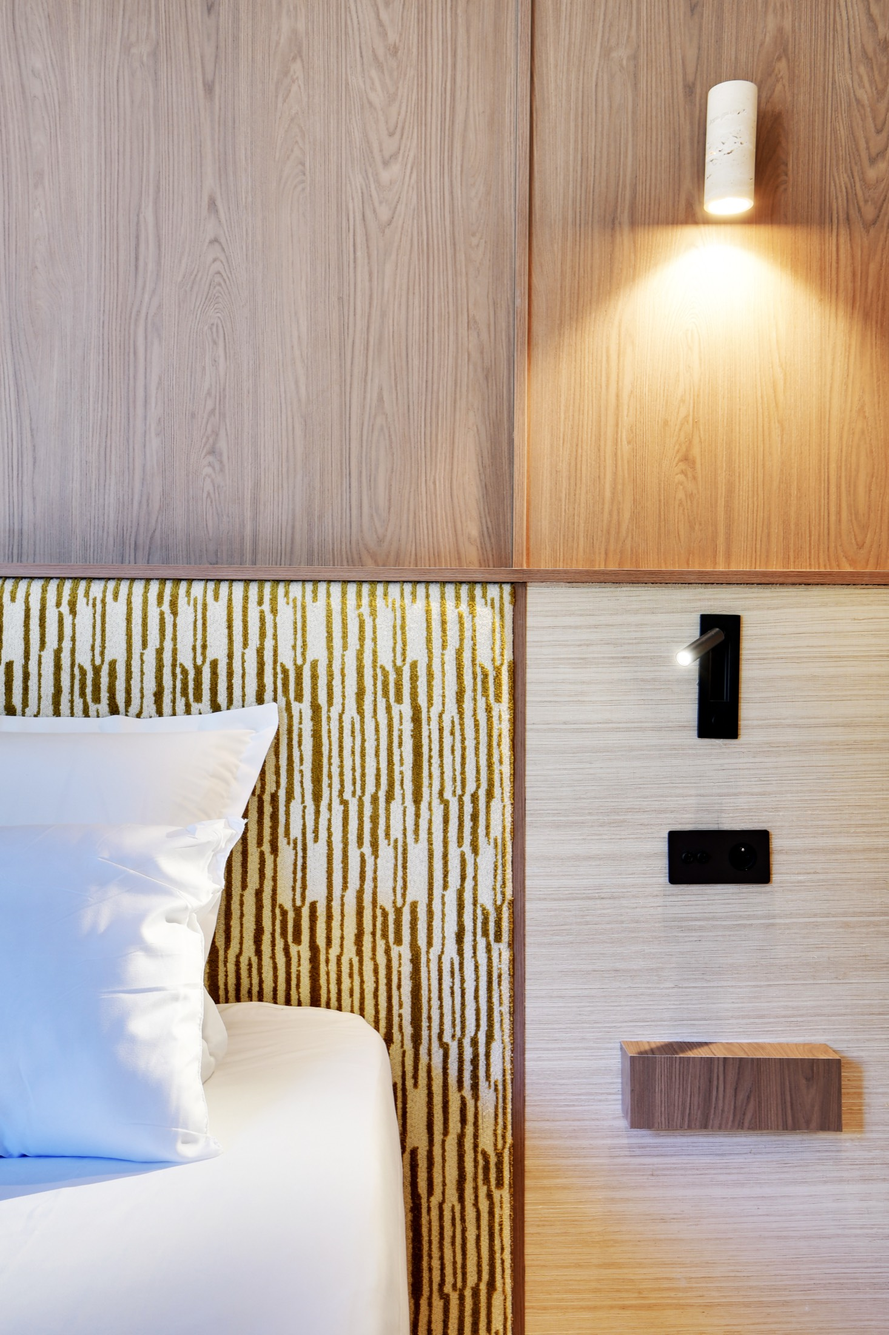
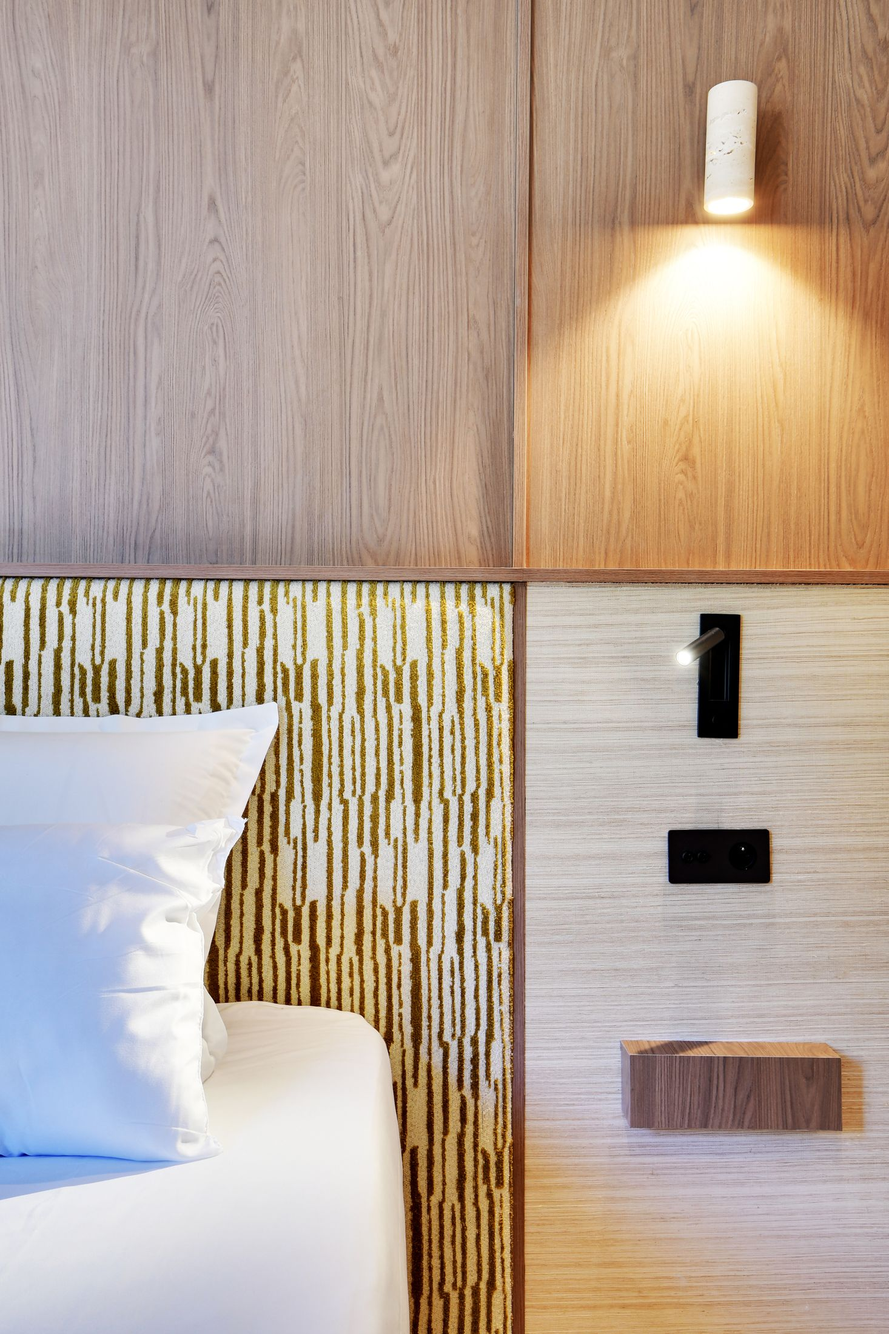
Recompression des photos depuis les originaux : 9,7 Mo -> 6,1 Mo
Réencodage en une seule passe à partir des fichiers du photographe, plutôt
qu'une recompression des JPEG du site qui aurait cumulé deux pertes.

En qualité 80, JPEG progressif et tables optimisées, contre 62 à 74 auparavant :
les fichiers sont à la fois plus légers et de meilleure qualité.

murmures-1 était agrandie au-delà de sa résolution native (2400px pour une
source en 2000px), ce qui ajoutait du poids sans ajouter de détail. Toutes les
images sont désormais plafonnées à leur taille réelle.

diff --git a/src/components/Navbar.tsx b/src/components/Navbar.tsx
@@ -49,17 +49,21 @@ const marque = global.marque.replace(/ & /g, "\u00A0&\u00A0");
  * Le logo cliquable : l'arche puis le nom. Identique dans le bandeau et dans
  * l'en-tête du tiroir, d'où le composant plutôt qu'un copier-coller.
  *
- * Sous `md`, l'arche n'a pas de hauteur fixe : `self-stretch` la cale sur la
- * hauteur du bloc texte, donc sur deux lignes quand le nom se coupe et sur
- * une seule quand il tient, sans point de rupture arbitraire à régler.
+ * Tant que le nom se coupe en deux, l'arche fait `2lh`, soit exactement deux
+ * interlignes : elle borde le bloc de texte au lieu de flotter à côté.
  *
- * L'`aspect-[197/245]` n'est pas décoratif : un SVG inline dont la hauteur
- * vient de `align-self: stretch` calcule sa largeur `auto` à 100 % du parent
- * au lieu de suivre son `viewBox`, et le logo remplit alors tout l'écran.
- * Le ratio explicite lui redonne la largeur attendue.
+ * Le seuil est à 460 px et non à `md` : le nom cesse de se couper vers
+ * 465 px avec l'arche à deux lignes, et vers 445 px avec l'arche réduite —
+ * n'importe quelle valeur entre les deux bascule proprement, sans largeur où
+ * les deux règles se contrediraient. C'est bien avant la tablette. Caler la bascule sur `md` laissait une
+ * plage de 300 px où l'arche gardait sa taille deux lignes en face d'une
+ * seule ligne de texte. Au-delà, on reprend la taille d'origine (`h-5`).
  *
- * À partir de `md` le nom tient toujours sur une ligne et on remet la taille
- * d'origine (`h-5`, centrée) : le desktop ne bouge pas d'un pixel.
+ * Ne pas tenter de remplacer `2lh` par `self-stretch` : un SVG inline dont
+ * la hauteur vient du `stretch` calcule sa largeur `auto` à 100 % du parent
+ * au lieu de suivre son `viewBox`, et le logo remplit tout l'écran. Ajouter
+ * un `aspect-ratio` ne sauve rien, c'est alors la largeur qui pilote la
+ * hauteur et l'arche regonfle pareil.
  */
 function BrandLink({ onClick }: { onClick?: () => void }) {
   return (
@@ -68,7 +72,7 @@ function BrandLink({ onClick }: { onClick?: () => void }) {
       onClick={onClick}
       className="flex min-w-0 items-center gap-3 font-serif text-base font-normal uppercase tracking-[0.2em] text-white no-underline hover:text-white/70"
     >
-      <SymbolIcon className="h-[2lh] w-auto shrink-0 text-white md:-mt-px md:h-5" />
+      <SymbolIcon className="h-[2lh] w-auto shrink-0 text-white min-[460px]:-mt-px min-[460px]:h-5" />
       <span className="min-w-0">{marque}</span>
     </Link>
   );
@@ -76,11 +80,34 @@ function BrandLink({ onClick }: { onClick?: () => void }) {
 
 export function Navbar() {
   const [open, setOpen] = useState(false);
+  const [scrolled, setScrolled] = useState(false);
   const pathname = usePathname();
 
   useEffect(() => {
     setOpen(false);
   }, [pathname]);
+
+  // Dès qu'on quitte la couverture, la barre se pose sur un fond chocolat :
+  // sans lui, le logotype et « MENU », tous deux blancs, se perdaient sur le
+  // lin de toutes les sections suivantes — flagrant sur téléphone, où la barre
+  // tombe en permanence sur du texte. Le seuil est bas (24 px) pour que la
+  // bascule se fasse pendant le premier geste, jamais au milieu de l'écran.
+  useEffect(() => {
+    let frame = 0;
+    const lire = () => {
+      frame = 0;
+      setScrolled(window.scrollY > 24);
+    };
+    const onScroll = () => {
+      if (frame === 0) frame = requestAnimationFrame(lire);
+    };
+    lire();
+    window.addEventListener("scroll", onScroll, { passive: true });
+    return () => {
+      window.removeEventListener("scroll", onScroll);
+      if (frame !== 0) cancelAnimationFrame(frame);
+    };
+  }, []);
 
   useEffect(() => {
     if (open) {
@@ -95,18 +122,32 @@ export function Navbar() {
 
   return (
     <>
-      <div className="pointer-events-none fixed left-0 top-0 z-10 w-full">
-        {/* Pas de fond propre ici : un bandeau teinté ne couvrirait que le haut
-            de la photo et la couperait en deux tons. Le voile est porté par
-            l'image elle-même, sur toute sa hauteur ; la barre se contente d'une
-            ombre portée sur son texte pour rester lisible. */}
+      {/* `reveal` est porté par cette enveloppe, dont la classe est fixe.
+          `ScrollReveal` pose `is-revealed` directement sur le noeud ; si la
+          classe venait d'un `template` piloté par un état React, le premier
+          rendu déclenché par le défilement la réécrirait, et la barre
+          disparaîtrait pour de bon (`.reveal` est à `opacity: 0`). */}
+      <div
+        className="reveal pointer-events-none fixed left-0 top-0 z-30 w-full"
+        style={{ "--reveal-shift": "-14px", "--reveal-duration": "1100ms" } as CSSProperties}
+      >
+        {/* En haut de page, aucun fond propre : un bandeau teinté ne couvrirait
+            que le haut de la photo et la couperait en deux tons. Le voile est
+            porté par l'image elle-même, et la barre se contente d'une ombre
+            portée sur son texte. Passé la couverture, l'ombre ne suffit plus et
+            c'est le fond chocolat qui prend le relais. */}
         <div
-          className="reveal pointer-events-auto relative flex w-full items-center justify-between px-6 py-4 [text-shadow:0_1px_12px_rgb(50_32_22/0.55)] md:px-24"
-          style={{ "--reveal-shift": "-14px", "--reveal-duration": "1100ms" } as CSSProperties}
+          className={`pointer-events-auto relative flex w-full items-center justify-between px-6 transition-[background-color,padding,box-shadow] duration-500 ease-[var(--ease-murmure)] md:px-24 ${
+            scrolled
+              ? "bg-dark-chocolate/95 py-3 shadow-[0_1px_0_0_rgb(255_255_255/0.10)] backdrop-blur-md md:py-4"
+              : "py-4 [text-shadow:0_1px_12px_rgb(50_32_22/0.55)]"
+          }`}
         >
           <BrandLink />
           <button
             onClick={() => setOpen(true)}
+            aria-label="Ouvrir le menu"
+            aria-expanded={open}
             className="flex cursor-pointer items-center gap-2 rounded-full border-none bg-white/10 px-4 py-2 text-white backdrop-blur-[5px] transition-colors duration-500 hover:bg-white/20"
           >
             <span className="font-serif text-base font-medium text-white">MENU</span>

diff --git a/src/app/globals.css b/src/app/globals.css
@@ -23,8 +23,15 @@
   --ease-murmure: cubic-bezier(0.22, 1, 0.36, 1);
 }
 
+html {
+  /* Safari iPhone regonfle le texte au passage en paysage sans cette ligne. */
+  -webkit-text-size-adjust: 100%;
+}
+
 body {
   background: var(--color-background);
+  /* Le rectangle bleu du tap iOS n'a rien à faire sur du lin. */
+  -webkit-tap-highlight-color: transparent;
   color: var(--color-foreground);
   font-family: var(--font-sans), sans-serif;
   /* Rend le gris des textes fins plus proche du dessin typographique. */
@@ -412,9 +419,14 @@ p {
   padding-bottom: 2px;
 }
 
-.link-rule:hover,
 .link-rule:focus-visible {
   background-size: 100% 1px;
+}
+
+@media (hover: hover) {
+  .link-rule:hover {
+    background-size: 100% 1px;
+  }
 }
 
 /* Image qui s'approche lentement au survol de sa carte. */
@@ -422,9 +434,11 @@ p {
   transition: transform 1200ms var(--ease-murmure);
 }
 
-.group:hover .zoom-slow,
-.zoom-host:hover .zoom-slow {
-  transform: scale(1.045);
+@media (hover: hover) {
+  .group:hover .zoom-slow,
+  .zoom-host:hover .zoom-slow {
+    transform: scale(1.045);
+  }
 }
 
 /* Bouton d'appel : la flèche avance d'un cheveu, le fond s'éclaircit. */
@@ -437,9 +451,14 @@ p {
   transition: transform 500ms var(--ease-murmure);
 }
 
-.cta:hover svg,
 .cta:focus-visible svg {
   transform: translateX(4px);
+}
+
+@media (hover: hover) {
+  .cta:hover svg {
+    transform: translateX(4px);
+  }
 }
 
 /* Carte qui se soulève à peine au survol. */
@@ -448,8 +467,10 @@ p {
     box-shadow 700ms var(--ease-murmure);
 }
 
-.card-lift:hover {
-  transform: translateY(-4px);
+@media (hover: hover) {
+  .card-lift:hover {
+    transform: translateY(-4px);
+  }
 }
 
 /* Entrées du menu : elles se posent l'une après l'autre à l'ouverture. */
@@ -492,8 +513,10 @@ p {
   transition: filter 700ms var(--ease-murmure);
 }
 
-.map-tint:hover {
-  filter: sepia(0.1) saturate(0.95) contrast(1);
+@media (hover: hover) {
+  .map-tint:hover {
+    filter: sepia(0.1) saturate(0.95) contrast(1);
+  }
 }
 
 /* ------------------------------------------------------------------

diff --git a/src/components/hotel/ExploreGrid.tsx b/src/components/hotel/ExploreGrid.tsx
@@ -26,7 +26,7 @@ function ExploreCard({
         href={href}
         className="cta group flex w-full flex-col items-start gap-6 overflow-hidden no-underline"
       >
-        <div className="relative z-[1] h-96 w-full overflow-hidden rounded">
+        <div className="relative z-[1] aspect-[4/3] w-full overflow-hidden rounded md:aspect-auto md:h-96">
           <Image
             src={image}
             alt={title}
@@ -93,7 +93,7 @@ export function ExploreGrid() {
     <section className="flex w-full flex-col items-center gap-14 px-5 py-16 md:px-10 md:py-24 md:max-xl:px-8">
       <div className="flex w-full max-w-screen-xl flex-col items-start gap-14">
         <div className="stagger flex w-full items-start gap-20 max-md:flex-col max-md:gap-6 md:max-xl:gap-6">
-          <h2 className="max-w-xl flex-1 whitespace-pre-line text-2xl font-normal uppercase leading-10 text-chocolate max-md:w-full md:text-3xl">
+          <h2 className="max-w-xl flex-1 whitespace-pre-line text-2xl font-normal uppercase leading-8 md:leading-10 text-chocolate max-md:w-full md:text-3xl">
             {explorer.titre}
           </h2>
           <div className="flex flex-1 flex-col gap-4 max-md:w-full">

diff --git a/src/components/hotel/HospitalitySection.tsx b/src/components/hotel/HospitalitySection.tsx
@@ -10,7 +10,7 @@ export function HospitalitySection() {
       <div className="relative flex w-full max-w-screen-xl flex-col items-center gap-16 md:flex-row md:items-start md:gap-20">
         {/* Text */}
         <div className="stagger flex flex-1 flex-col gap-6 md:sticky md:top-32">
-          <h2 className="text-2xl font-normal uppercase leading-10 text-chocolate md:text-3xl">
+          <h2 className="text-2xl font-normal uppercase leading-8 md:leading-10 text-chocolate md:text-3xl">
             {hospitalite.titre}
           </h2>
           <p className="dropcap max-w-md text-base font-light leading-7 text-dark-chocolate md:text-sm xl:text-base">
@@ -23,7 +23,7 @@ export function HospitalitySection() {
 
         {/* Image */}
         <div
-          className="reveal-image zoom-host relative aspect-[3/4] w-full max-w-md overflow-hidden rounded md:flex-1"
+          className="reveal-image zoom-host relative aspect-[4/5] w-full max-w-md overflow-hidden rounded md:aspect-[3/4] md:flex-1"
           style={{ "--reveal-delay": "200ms" } as CSSProperties}
         >
           <Image

diff --git a/src/components/hotel/SpiritCarousel.tsx b/src/components/hotel/SpiritCarousel.tsx
@@ -35,7 +35,7 @@ export function SpiritCarousel() {
     <section className="flex w-full flex-col items-center gap-10 px-5 pt-20 pb-24 md:px-10">
       <div className="flex w-full max-w-screen-xl flex-col items-start gap-10">
         <div className="stagger flex w-full items-end justify-between">
-          <h2 className="text-2xl font-normal uppercase leading-10 text-chocolate md:text-3xl">
+          <h2 className="text-2xl font-normal uppercase leading-8 md:leading-10 text-chocolate md:text-3xl">
             {esprit.titre}
           </h2>
           <div className="flex items-center gap-3">
@@ -109,7 +109,7 @@ export function SpiritCarousel() {
 
         {/* Mobile: single card */}
         <div key={current} className="swap flex w-full flex-col gap-5 md:hidden">
-          <div className="relative aspect-[3/4] w-full overflow-hidden rounded">
+          <div className="relative aspect-[4/5] w-full overflow-hidden rounded">
             <Image
               src={slides[current].image}
               alt={slides[current].titre}

diff --git a/src/components/RoomsSection.tsx b/src/components/RoomsSection.tsx
@@ -30,7 +30,7 @@ export function RoomsSection() {
           </div>
           <Link
             href="/nos-chambres"
-            className="cta flex shrink-0 items-center gap-2 rounded-full bg-chocolate px-4 py-2 no-underline hover:bg-dark-chocolate"
+            className="cta flex w-full shrink-0 items-center justify-center gap-2 rounded-full bg-chocolate px-4 py-3 no-underline hover:bg-dark-chocolate md:w-auto md:justify-start md:py-2"
           >
             <span className="whitespace-pre font-serif uppercase text-white text-base">
               {chambres.bouton}
@@ -44,7 +44,7 @@ export function RoomsSection() {
         >
           {chambres.cartes.map((room, i) => (
             <div key={room.titre} className="group flex flex-col gap-6">
-              <div className="relative aspect-square w-full overflow-hidden rounded">
+              <div className="relative aspect-[4/3] w-full overflow-hidden rounded md:aspect-square">
                 <Image
                   src={images[i]}
                   alt={room.titre}

diff --git a/src/components/IntroSection.tsx b/src/components/IntroSection.tsx
@@ -11,7 +11,7 @@ export function IntroSection() {
     >
       <LogoWatermark className="fade-in left-1/2 top-1/2 -translate-x-1/2 -translate-y-1/2 md:h-[62%] md:w-auto" />
       <div className="stagger relative z-10 flex w-full max-w-screen-xl flex-col items-center gap-6">
-        <h2 className="w-full text-center text-2xl font-normal uppercase leading-10 text-chocolate md:text-3xl">
+        <h2 className="w-full text-center text-2xl font-normal uppercase leading-8 md:leading-10 text-chocolate md:text-3xl">
           {intro.titre}
         </h2>
         <div className="flex w-full max-w-4xl flex-col text-center text-lg font-light leading-[140%] text-dark-chocolate md:text-xl">

diff --git a/src/components/hotel/LocationCard.tsx b/src/components/hotel/LocationCard.tsx
@@ -14,7 +14,7 @@ export function LocationCard() {
       <div className="reveal reveal-lift flex w-full max-w-screen-xl flex-col overflow-hidden rounded bg-white md:min-h-[586px] md:flex-row">
         <div className="flex h-full w-full flex-col md:w-[640px] md:max-w-screen-sm md:shrink-0">
           <div className="flex flex-col gap-4 px-8 pt-10 pb-14 md:px-16 md:pt-16">
-            <h2 className="text-2xl font-normal uppercase leading-10 text-chocolate md:text-3xl">
+            <h2 className="text-2xl font-normal uppercase leading-8 md:leading-10 text-chocolate md:text-3xl">
               {emplacement.titre}
             </h2>
             <div className="flex flex-col gap-5">

diff --git a/src/components/HeroSection.tsx b/src/components/HeroSection.tsx
@@ -8,7 +8,7 @@ import { contenu } from "@/contenu";
 // s'arrête au bloc, d'où une bande claire en bas de l'image.
 export function HeroSection() {
   return (
-    <section className="relative flex h-[680px] w-full flex-col items-center justify-center overflow-hidden px-4 pt-24 md:h-[80vh] md:max-h-[820px] md:min-h-[620px] md:px-6 md:pt-28">
+    <section className="relative flex h-[min(680px,88svh)] w-full flex-col items-center justify-center overflow-hidden px-4 pt-24 md:h-[80vh] md:max-h-[820px] md:min-h-[620px] md:px-6 md:pt-28">
       <Image
         src="/images/murmures-3.jpeg"
         alt={contenu.global.nomHotel}

diff --git a/src/components/cafe/CafeInfo.tsx b/src/components/cafe/CafeInfo.tsx
@@ -8,7 +8,7 @@ export function CafeInfo() {
   return (
     <section className="flex w-full flex-col items-center px-5 py-16 md:px-10 md:py-24">
       <div className="flex w-full max-w-screen-xl flex-col items-center gap-14 md:flex-row md:gap-20">
-        <div className="reveal-image zoom-host relative aspect-[3/4] w-full overflow-hidden rounded md:w-1/2">
+        <div className="reveal-image zoom-host relative aspect-[4/5] w-full overflow-hidden rounded md:aspect-[3/4] md:w-1/2">
           <Image
             src="/images/murmures-5.jpeg"
             alt="Intérieur du Café des Murmures"

diff --git a/src/components/MapSection.tsx b/src/components/MapSection.tsx
@@ -17,7 +17,7 @@ export function MapSection({ className = "" }: MapSectionProps) {
     >
       <div className="flex w-full max-w-screen-xl flex-col gap-8">
         <div className="stagger flex flex-col gap-4 md:flex-row md:items-end md:justify-between">
-          <h2 className="text-2xl font-normal uppercase leading-10 text-chocolate md:text-3xl">
+          <h2 className="text-2xl font-normal uppercase leading-8 md:leading-10 text-chocolate md:text-3xl">
             {carte.titre}
           </h2>
           <p className="text-base font-light leading-7 text-dark-chocolate/70">

diff --git a/src/components/Footer.tsx b/src/components/Footer.tsx
@@ -5,7 +5,7 @@ import { StarMark } from "./StarMark";
 
 export function Footer() {
   return (
-    <footer className="flex w-full flex-col items-center gap-20 bg-dark-chocolate pt-20 font-sans text-xs">
+    <footer className="flex w-full flex-col items-center gap-20 bg-dark-chocolate pt-20 pb-[env(safe-area-inset-bottom)] font-sans text-xs">
       {/* Cette bande était vide : elle sert maintenant de seuil au pied de
           page, avec l'astérisque du logotype pour marquer le passage. */}
       <div className="flex w-full items-center justify-center px-6 md:px-10">
